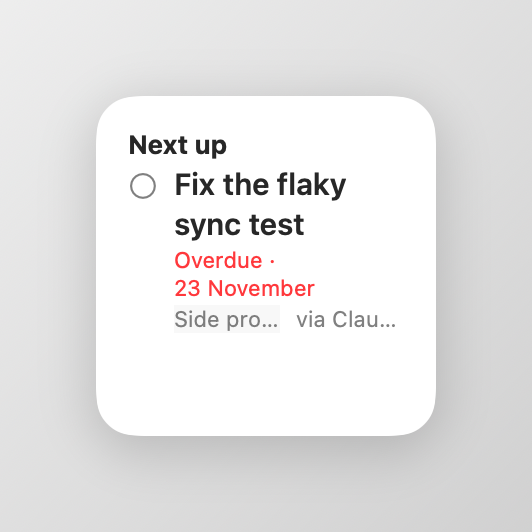
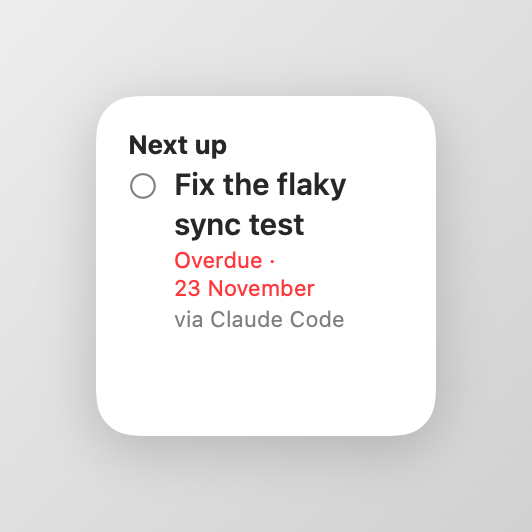
docs(widgets): README widget shots say they are rendered
The Next up shot is re-rendered with the new caption layout, the four widget
captions end with "(rendered)" and a line says why.

Changed region(s): [[0.3308, 0.5714, 0.7218, 0.6316]]

diff --git a/README.md b/README.md
@@ -28,14 +28,16 @@ The approved design is in [docs/product](docs/product/); how each piece was buil
 
 ## A walk through todz
 
-|                                                                                                                    |                                                                                                                       |
-| ------------------------------------------------------------------------------------------------------------------ | --------------------------------------------------------------------------------------------------------------------- |
-| ![Sign in](docs/screenshots/mac-app-shell/01-sign-in.png)<br>Sign in                                               | ![Name your first workspace](docs/screenshots/mac-app-shell/02-first-workspace.png)<br>Name your first workspace       |
-| ![Today across projects](docs/screenshots/mac-app-shell/03-today-two-projects.png)<br>Today across projects       | ![An agent's task appears live](docs/screenshots/mac-sync/01-agent-add-live.png)<br>An agent's task appears live       |
+|                                                                                                                   |                                                                                                                       |
+| ----------------------------------------------------------------------------------------------------------------- | --------------------------------------------------------------------------------------------------------------------- |
+| ![Sign in](docs/screenshots/mac-app-shell/01-sign-in.png)<br>Sign in                                              | ![Name your first workspace](docs/screenshots/mac-app-shell/02-first-workspace.png)<br>Name your first workspace      |
+| ![Today across projects](docs/screenshots/mac-app-shell/03-today-two-projects.png)<br>Today across projects       | ![An agent's task appears live](docs/screenshots/mac-sync/01-agent-add-live.png)<br>An agent's task appears live      |
 | ![Offline, changes waiting](docs/screenshots/mac-sync/02-offline-changes-waiting.png)<br>Offline, changes waiting | ![A refused change, explained](docs/screenshots/mac-sync/03-refused-change-banner.png)<br>A refused change, explained |
-| ![Today from the menu bar](docs/screenshots/menu-bar/01-today-popover.png)<br>Today from the menu bar             | ![Today ring](docs/screenshots/widgets/01-today-ring.png)<br>Today ring widget                                        |
-| ![Next up](docs/screenshots/widgets/02-next-up.png)<br>Next up widget                                             | ![Medium Today list](docs/screenshots/widgets/03-medium-today.png)<br>Medium Today list widget                        |
-| ![Large Today list](docs/screenshots/widgets/04-large-today.png)<br>Large Today list widget                       |                                                                                                                       |
+| ![Today from the menu bar](docs/screenshots/menu-bar/01-today-popover.png)<br>Today from the menu bar             | ![Today ring](docs/screenshots/widgets/01-today-ring.png)<br>Today ring (rendered)                                    |
+| ![Next up](docs/screenshots/widgets/02-next-up.png)<br>Next up (rendered)                                         | ![Medium Today list](docs/screenshots/widgets/03-medium-today.png)<br>Medium Today list (rendered)                    |
+| ![Large Today list](docs/screenshots/widgets/04-large-today.png)<br>Large Today list (rendered)                   |                                                                                                                       |
+
+The widget shots are rendered from the widgets' own views until a desktop capture replaces them.
 
 ## How the work happens
 
